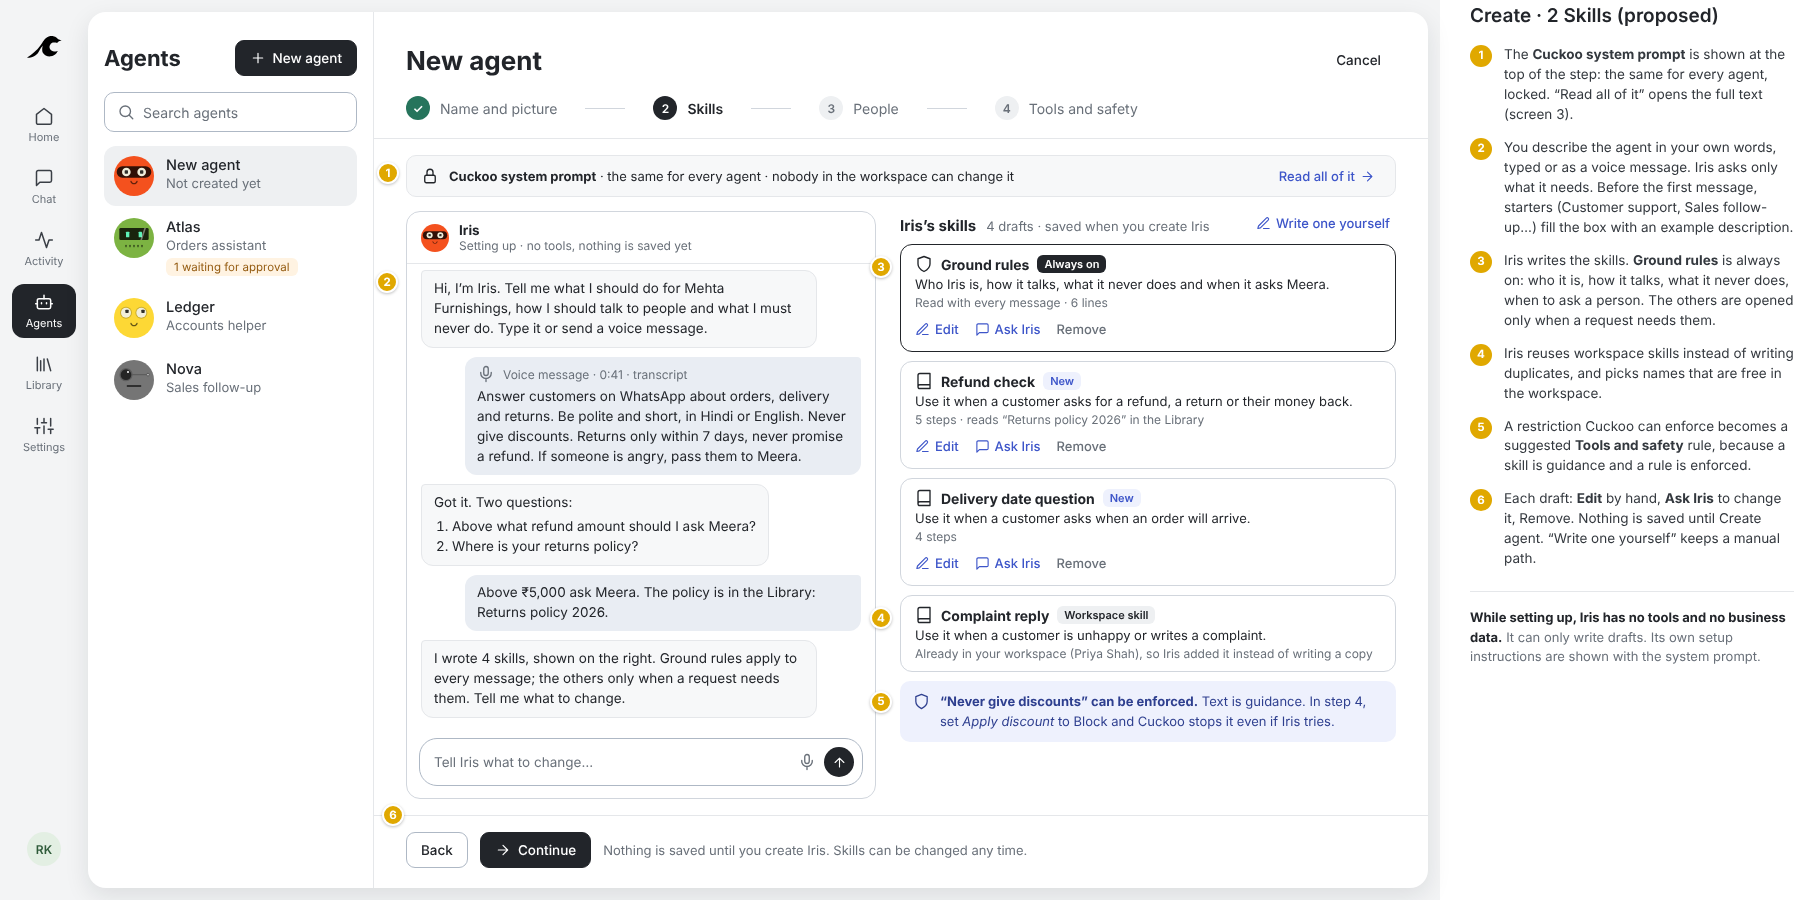
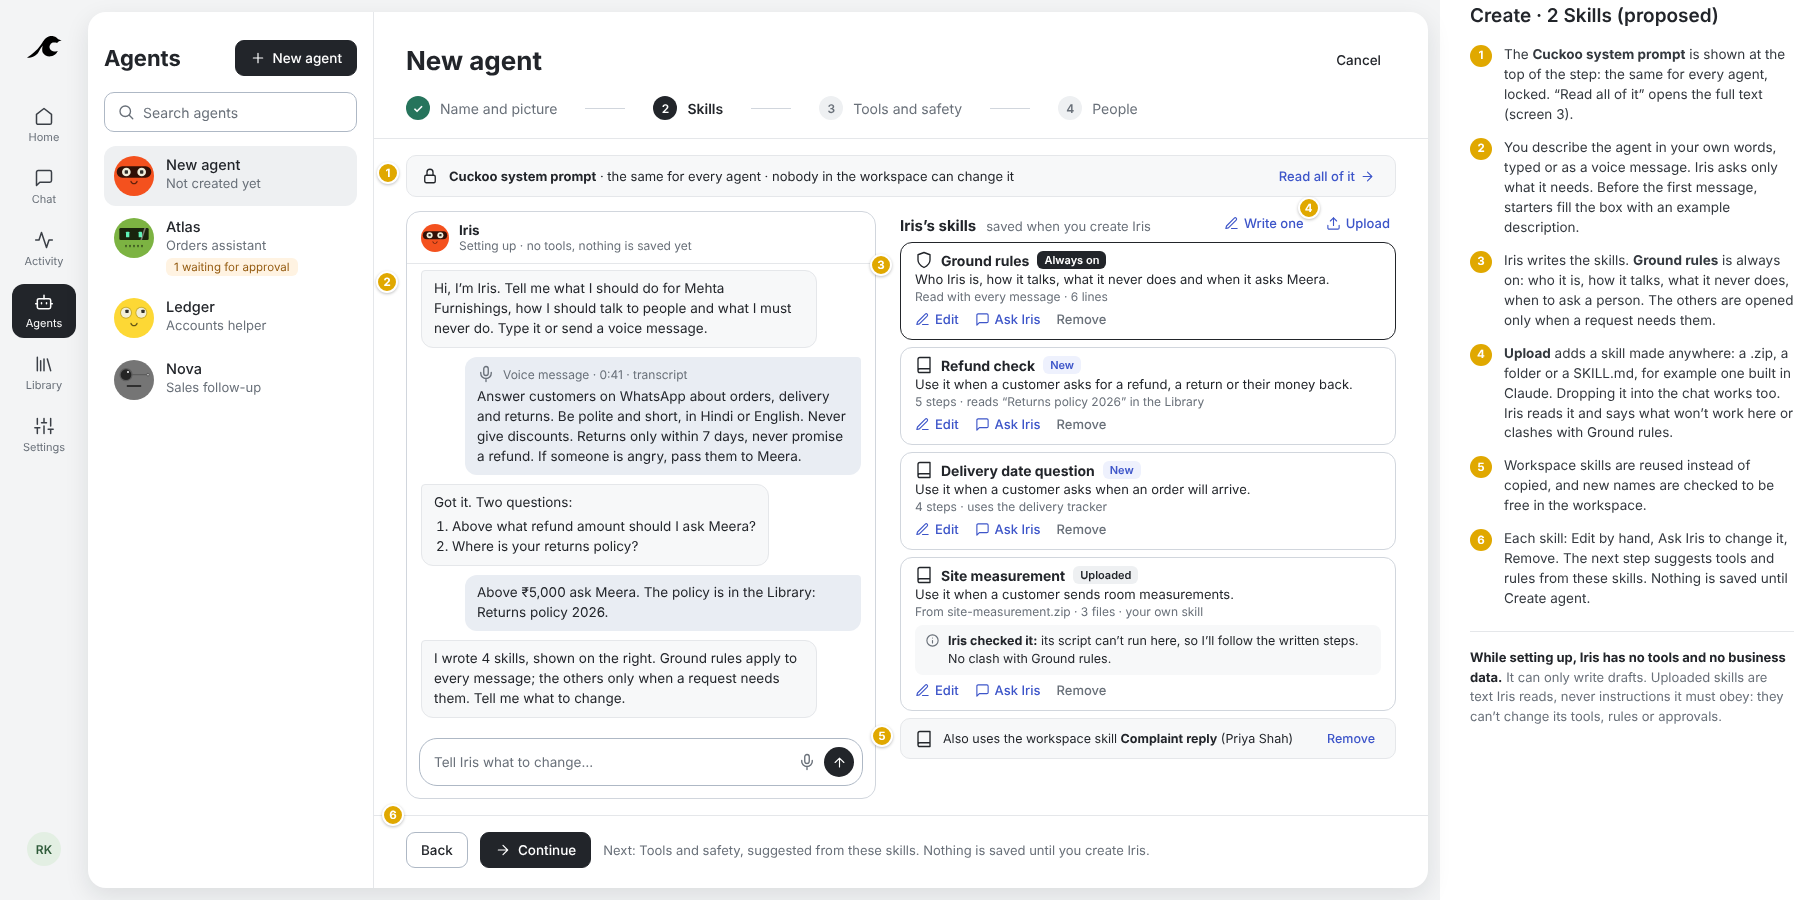
Add outside skill uploads and put Tools and safety after Skills (design only)
The owner wants skills made outside Cuckoo, for example in Claude, to be
uploadable alongside the ones the agent writes. Step 2 now offers Upload next
to Write one; the agent reviews an uploaded skill in setup mode and says what
won't work here (scripts never run) or clashes with Ground rules. Uploaded text
stays untrusted guidance that can't change tools, rules or approvals.

The create order becomes Name and picture, Skills, Tools and safety, People.
Tools come after skills so connectors can be suggested with the skill that
needs them, restrictions from the description become Ask first or Block
rules, and unneeded connectors stay off. Writes are never suggested looser
than Ask first, admin limits still win, and nothing is live until Create
agent. New screen 4 shows the step; the README explains both choices.

Claude-Session: https://claude.ai/code/session_013AjSbZR1nLM9pazhrg5fFe

diff --git a/designs/agent-built-skills/mockups.html b/designs/agent-built-skills/mockups.html
@@ -170,17 +170,17 @@ body{margin:0;font-family:Inter,system-ui,sans-serif;color:var(--text);backgroun
 .composer{margin:8px 12px 12px;border:1px solid var(--border-control);border-radius:18px;padding:8px 8px 8px 14px;display:flex;align-items:center;gap:8px;color:var(--muted);font-size:13.5px}
 .composer .send{width:30px;height:30px;border-radius:50%;background:var(--accent);color:#fff;display:grid;place-items:center}
 .composer .send .i{width:15px;height:15px}
-.drafts{display:flex;flex-direction:column;gap:9px;min-width:0;position:relative}
+.drafts{display:flex;flex-direction:column;gap:7px;min-width:0;position:relative}
 .drafts-head{display:flex;align-items:baseline;gap:10px}
 .drafts-head h3{margin:0;font-size:15px}
 .drafts-head small{color:var(--muted);font-size:13px}
-.draft{border:1px solid var(--border-panel);border-radius:12px;padding:10px 14px;display:grid;gap:3px;background:#fff}
+.draft{border:1px solid var(--border-panel);border-radius:12px;padding:8px 14px;display:grid;gap:2px;background:#fff}
 .draft.always{border-color:var(--accent)}
 .draft-top{display:flex;align-items:center;gap:8px}
 .draft-top b{font-size:14px}
 .draft .when{font-size:13px}
 .draft small{color:var(--muted);font-size:12px}
-.draft .acts{display:flex;gap:4px;margin-top:4px;margin-left:-6px}
+.draft .acts{display:flex;gap:4px;margin-top:1px;margin-left:-6px}
 .badge{font-size:11px;font-weight:600;padding:2px 7px;border-radius:6px;white-space:nowrap}
 .badge.always{background:var(--accent);color:#fff}
 .badge.new{background:#eef1fd;color:var(--link)}
@@ -206,6 +206,27 @@ body{margin:0;font-family:Inter,system-ui,sans-serif;color:var(--text);backgroun
 .layer-title .badge{margin-left:auto}
 .layer p{margin:0;font-size:13px;color:var(--muted)}
 .layer.locked .layer-title .i{color:var(--muted)}
+
+.seg{display:inline-flex;border:1px solid var(--border-panel);border-radius:10px;padding:3px;gap:2px;background:#fff}
+.seg span{padding:5px 13px;border-radius:7px;font-size:12.5px;color:var(--muted);white-space:nowrap}
+.seg .allow{background:#e3f3ea;color:var(--success);font-weight:600}
+.seg .ask{background:var(--warning-bg);color:var(--warning);font-weight:600}
+.seg .block{background:#fdeeee;color:var(--danger);font-weight:600}
+.seg .off{opacity:.4}
+.switch{width:38px;height:22px;border-radius:999px;background:var(--border-panel);position:relative;flex:0 0 auto}
+.switch.on{background:var(--accent)}
+.switch::after{content:'';position:absolute;top:3px;left:3px;width:16px;height:16px;border-radius:50%;background:#fff}
+.switch.on::after{left:19px}
+.conn{border-bottom:1px solid var(--border);padding:10px 0;position:relative}
+.conn-head{display:flex;align-items:center;gap:12px}
+.conn-head b{font-size:14.5px;display:block}
+.conn-head small{color:var(--muted);font-size:12.5px}
+.op{display:grid;grid-template-columns:minmax(0,1fr) auto;gap:12px;padding:6px 0 6px 50px;align-items:center}
+.op b{font-size:13.5px;font-weight:550;display:block}
+.op small{color:var(--muted);font-size:12px;display:block}
+.op small.why{color:var(--link)}
+.review{display:flex;gap:8px;background:var(--soft);border-radius:8px;padding:7px 10px;font-size:12.5px;line-height:1.45;margin-top:4px}
+.review .i{width:15px;height:15px;margin-top:1px;color:var(--muted)}
 </style></head>
 <body>
 <svg width="0" height="0" style="position:absolute" aria-hidden="true">
@@ -237,6 +258,7 @@ body{margin:0;font-family:Inter,system-ui,sans-serif;color:var(--text);backgroun
 <symbol id="send" viewBox="0 0 24 24"><path d="M12 19V5M5 12l7-7 7 7"/></symbol>
 <symbol id="minus" viewBox="0 0 24 24"><path d="M5 12h14"/></symbol>
 <symbol id="shield" viewBox="0 0 24 24"><path d="M12 22s8-4 8-10V5l-8-3-8 3v7c0 6 8 10 8 10z"/></symbol>
+<symbol id="plug" viewBox="0 0 24 24"><path d="M9 2v6M15 2v6M6 8h12v4a6 6 0 0 1-12 0zM12 18v4"/></symbol>
 <symbol id="chev" viewBox="0 0 24 24"><path d="m6 9 6 6 6-6"/></symbol>
 </svg>
 <div id="root"></div>
@@ -285,26 +307,26 @@ const teachChat = `<div class="chat" style="height:100%">
     <div class="composer">Tell Iris what to change…<span style="margin-left:auto">${I('mic')}</span><span class="send">${I('send')}</span></div>
 </div>`;
 
-function draft({ name, badge, when, meta, cls = '', acts = true }) {
+function draft({ name, badge, when, meta, cls = '', acts = true, extra = '' }) {
   return `<div class="draft ${cls}"><div class="draft-top">${I(cls === 'always' ? 'shield' : 'book')}<b>${name}</b>${badge}</div>
-    <span class="when">${when}</span><small>${meta}</small>
+    <span class="when">${when}</span><small>${meta}</small>${extra}
     ${acts ? `<div class="acts"><span class="linkbtn">${I('pencil')}Edit</span><span class="linkbtn">${I('chat')}Ask Iris</span><span class="linkbtn" style="color:var(--muted)">Remove</span></div>` : ''}</div>`;
 }
 
 const teachDrafts = `<div class="drafts">
-  <div class="drafts-head"><h3>Iris’s skills</h3><small>4 drafts · saved when you create Iris</small><span style="margin-left:auto" class="linkbtn">${I('pencil')}Write one yourself</span></div>
+  <div class="drafts-head"><h3>Iris’s skills</h3><small>saved when you create Iris</small><span style="margin-left:auto;position:relative" class="linkbtn">${I('pencil')}Write one</span><span class="linkbtn" style="position:relative">${pin(4, 'left:-22px;top:-14px')}${I('upload')}Upload</span></div>
   <div style="position:relative">${pin(3, 'left:-30px;top:12px')}
   ${draft({ name: 'Ground rules', cls: 'always', badge: '<span class="badge always">Always on</span>', when: 'Who Iris is, how it talks, what it never does and when it asks Meera.', meta: 'Read with every message · 6 lines' })}</div>
   ${draft({ name: 'Refund check', badge: '<span class="badge new">New</span>', when: 'Use it when a customer asks for a refund, a return or their money back.', meta: '5 steps · reads “Returns policy 2026” in the Library' })}
-  ${draft({ name: 'Delivery date question', badge: '<span class="badge new">New</span>', when: 'Use it when a customer asks when an order will arrive.', meta: '4 steps' })}
-  <div style="position:relative">${pin(4, 'left:-30px;top:12px')}
-  ${draft({ name: 'Complaint reply', badge: '<span class="badge ws">Workspace skill</span>', when: 'Use it when a customer is unhappy or writes a complaint.', meta: 'Already in your workspace (Priya Shah), so Iris added it instead of writing a copy', acts: false })}</div>
-  <div class="notice info" style="position:relative">${pin(5, 'left:-30px;top:10px')}${I('shield')}<span><b>“Never give discounts” can be enforced.</b> Text is guidance. In step 4, set <i>Apply discount</i> to Block and Cuckoo stops it even if Iris tries.</span></div>
+  ${draft({ name: 'Delivery date question', badge: '<span class="badge new">New</span>', when: 'Use it when a customer asks when an order will arrive.', meta: '4 steps · uses the delivery tracker' })}
+  ${draft({ name: 'Site measurement', badge: '<span class="badge ws">Uploaded</span>', when: 'Use it when a customer sends room measurements.', meta: 'From site-measurement.zip · 3 files · your own skill',
+    extra: `<div class="review">${I('info')}<span><b>Iris checked it:</b> its script can’t run here, so I’ll follow the written steps. No clash with Ground rules.</span></div>` })}
+  <div class="sp-bar" style="position:relative;font-size:12.5px">${pin(5, 'left:-30px;top:6px')}${I('book')}<span>Also uses the workspace skill <b>Complaint reply</b> (Priya Shah)</span><span class="right linkbtn" style="font-size:12.5px">Remove</span></div>
 </div>`;
 
 const s1 = screen('s1', `<div class="frame">${roster('new')}<div class="main">
   <header class="create-head"><h2>New agent</h2><span class="btn quiet">Cancel</span></header>
-  <ol class="steps" style="margin:0"><li class="done"><span>✓</span>Name and picture</li><li class="line"></li><li class="cur"><span>2</span>Skills</li><li class="line"></li><li><span>3</span>People</li><li class="line"></li><li><span>4</span>Tools and safety</li></ol>
+  <ol class="steps" style="margin:0"><li class="done"><span>✓</span>Name and picture</li><li class="line"></li><li class="cur"><span>2</span>Skills</li><li class="line"></li><li><span>3</span>Tools and safety</li><li class="line"></li><li><span>4</span>People</li></ol>
   <div style="flex:1;min-height:0;padding:16px 32px;display:flex;flex-direction:column;gap:14px">
     <div class="sp-bar" style="position:relative">${pin(1, 'left:-30px;top:6px')}${I('lock')}<span><b>Cuckoo system prompt</b> · the same for every agent · nobody in the workspace can change it</span><span class="right linkbtn">Read all of it ${I('arrow')}</span></div>
     <div style="flex:1;min-height:0;display:grid;grid-template-columns:470px minmax(0,1fr);gap:24px">
@@ -312,15 +334,15 @@ const s1 = screen('s1', `<div class="frame">${roster('new')}<div class="main">
       ${teachDrafts}
     </div>
   </div>
-  <footer class="foot" style="position:relative">${pin(6, 'left:8px;top:-12px')}<span class="btn">Back</span><span class="btn primary">${I('arrow')}Continue</span><p>Nothing is saved until you create Iris. Skills can be changed any time.</p></footer>
+  <footer class="foot" style="position:relative">${pin(6, 'left:8px;top:-12px')}<span class="btn">Back</span><span class="btn primary">${I('arrow')}Continue</span><p>Next: Tools and safety, suggested from these skills. Nothing is saved until you create Iris.</p></footer>
 </div></div>`, notes('Create · 2 Skills (proposed)', [
   'The <b>Cuckoo system prompt</b> is shown at the top of the step: the same for every agent, locked. “Read all of it” opens the full text (screen 3).',
-  'You describe the agent in your own words, typed or as a voice message. Iris asks only what it needs. Before the first message, starters (Customer support, Sales follow-up…) fill the box with an example description.',
+  'You describe the agent in your own words, typed or as a voice message. Iris asks only what it needs. Before the first message, starters fill the box with an example description.',
   'Iris writes the skills. <b>Ground rules</b> is always on: who it is, how it talks, what it never does, when to ask a person. The others are opened only when a request needs them.',
-  'Iris reuses workspace skills instead of writing duplicates, and picks names that are free in the workspace.',
-  'A restriction Cuckoo can enforce becomes a suggested <b>Tools and safety</b> rule, because a skill is guidance and a rule is enforced.',
-  'Each draft: <b>Edit</b> by hand, <b>Ask Iris</b> to change it, Remove. Nothing is saved until Create agent. “Write one yourself” keeps a manual path.',
-], '<b>While setting up, Iris has no tools and no business data.</b> It can only write drafts. Its own setup instructions are shown with the system prompt.'));
+  '<b>Upload</b> adds a skill made anywhere: a .zip, a folder or a SKILL.md, for example one built in Claude. Dropping it into the chat works too. Iris reads it and says what won’t work here or clashes with Ground rules.',
+  'Workspace skills are reused instead of copied, and new names are checked to be free in the workspace.',
+  'Each skill: Edit by hand, Ask Iris to change it, Remove. The next step suggests tools and rules from these skills. Nothing is saved until Create agent.',
+], '<b>While setting up, Iris has no tools and no business data.</b> It can only write drafts. Uploaded skills are text Iris reads, never instructions it must obey: they can’t change its tools, rules or approvals.'));
 
 /* ---------- Screen 2: change a skill with chat ---------- */
 const irisHead = `<header class="agent-head"><span class="av"><img src="${AV('07')}" alt=""></span>
@@ -425,6 +447,40 @@ const s3 = screen('s3', s2bg, notes('Everything the agent receives', [
   '<b>Copy as text</b> gives the exact text. Opened from the create step, the Skills tab and the agent’s ⋯ menu, so anyone who can see the agent can read it at any time.',
 ], '<b>Today</b> the Cuckoo rules card and this preview show only the first paragraph. About 20 more fixed paragraphs are added at request time in <code class="mono">chat/execution.rs</code> and are invisible.'));
 
-document.getElementById('root').innerHTML = s1 + s2 + s3;
+
+/* ---------- Screen 4: tools and safety, suggested from the skills ---------- */
+const seg = mode => `<span class="seg">${['allow','ask','block'].map(m => `<span class="${m === mode ? m : ''}">${{allow:'Allow',ask:'Ask first',block:'Block'}[m]}</span>`).join('')}</span>`;
+const segLocked = `<span class="seg"><span class="off">Allow</span><span class="off">Ask first</span><span class="block">Block</span></span>`;
+const conn = ({ name, sub, badge = '', on, ops = '', icon = 'plug' }) => `<div class="conn"><div class="conn-head"><span class="tile">${I(icon)}</span>
+  <span style="flex:1;min-width:0"><b>${name}</b><small>${sub}</small></span>${badge}<span class="switch ${on ? 'on' : ''}"></span></div>${ops}</div>`;
+const op = (title, sub, why, mode) => `<div class="op"><span><b>${title}</b><small>${sub}</small>${why ? `<small class="why">${why}</small>` : ''}</span>${mode}</div>`;
+
+const s4 = screen('s4', `<div class="frame">${roster('new')}<div class="main">
+  <header class="create-head"><h2>New agent</h2><span class="btn quiet">Cancel</span></header>
+  <ol class="steps" style="margin:0"><li class="done"><span>✓</span>Name and picture</li><li class="line"></li><li class="done"><span>✓</span>Skills</li><li class="line"></li><li class="cur"><span>3</span>Tools and safety</li><li class="line"></li><li><span>4</span>People</li></ol>
+  <div style="flex:1;min-height:0;padding:16px 32px;display:flex;flex-direction:column;gap:6px">
+    <div class="notice info" style="position:relative;align-items:center">${pin(1, 'left:-30px;top:10px')}${I('shield')}<span style="flex:1">Iris suggested these from its skills. Your admin sets the loosest rule for each action; you can only make it stricter. Nothing is used until you create Iris.</span><span class="btn small" style="background:#fff">Clear suggestions</span></div>
+    <div style="position:relative">${pin(2, 'left:-30px;top:22px')}
+    ${conn({ name: 'Zoho Books', sub: 'Accounts and orders · 4 actions', on: true, badge: '<span class="badge new">Suggested for Refund check</span>', ops:
+      op('Read orders and invoices', 'Reads', 'Refund check looks up the order', seg('allow')) +
+      `<div style="position:relative">${pin(3, 'left:18px;top:14px')}` + op('Create a credit note', 'Changes', 'Ask first, because you said: “never promise a refund yourself”', seg('ask')) +
+      op('Apply a discount', 'Changes', 'Block, because you said: “never give discounts”', seg('block')) + '</div>' +
+      `<div style="position:relative">${pin(4, 'left:18px;top:10px')}` + op('Delete an invoice', 'Deletes · blocked by your admin', '', segLocked) + '</div>' })}</div>
+    ${conn({ name: 'Delivery tracker', sub: 'External MCP server · 3 actions', on: true, icon: 'file', badge: '<span class="badge new">Suggested for Delivery date question</span>', ops:
+      op('Track a shipment', 'Reads', 'Delivery date question checks the courier', seg('allow')) })}
+    <div style="position:relative">${pin(5, 'left:-30px;top:16px')}
+    ${conn({ name: 'Google Workspace', sub: 'Gmail and Calendar · 6 actions · no skill needs it', on: false })}</div>
+    <div class="notice" style="margin-top:8px">${I('warning')}<span><b>Site measurement</b> mentions saving files to Google Drive, which isn’t connected. Iris will ask the customer to send measurements in chat instead, or you can ask Iris to change the skill.</span></div>
+  </div>
+  <footer class="foot"><span class="btn">Back</span><span class="btn primary">${I('arrow')}Continue</span><p>No tools is fine. Tools can change later on the Tools tab.</p></footer>
+</div></div>`, notes('Create · 3 Tools and safety', [
+  'Tools and safety moves to <b>step 3, right after Skills</b>, so it can start from what the agent will actually do. Clear suggestions turns everything off again.',
+  'Each suggested connector names the skill that needs it. Reads a skill needs are suggested as Allow; connectors no skill needs stay off.',
+  'Restrictions from your description become <b>enforced</b> rules, quoting your words: Ask first for a credit note, Block for discounts. Changes are never suggested looser than Ask first.',
+  'Your admin’s limits still win: options looser than the admin rule are greyed out, as today.',
+  'Skills that need something missing get a plain warning, so you can switch it on, change the skill or accept it.',
+], '<b>People moves to step 4</b> and gets the Create agent button. Who can talk to the agent doesn’t depend on its skills or tools.'));
+
+document.getElementById('root').innerHTML = s1 + s2 + s3 + s4;
 </script>
 </body></html>

diff --git a/designs/agent-built-skills/README.md b/designs/agent-built-skills/README.md
@@ -17,6 +17,10 @@ folder. The example company is fictional.
   describes the agent in their own words; the agent asks what it needs and
   writes its skills. The person reviews them, edits any skill by hand or asks the
   agent in chat to change it. An agent can have several skills.
+- Skills made anywhere else (for example in Claude) can be **uploaded** too, as
+  today: a `.zip`, a folder or a `SKILL.md`.
+- **Order:** Name and picture → Skills → Tools and safety → People. Tools come
+  after skills so they can be suggested from what the agent will do.
 
 ## Additions to keep it safe
 
@@ -38,9 +42,38 @@ folder. The example company is fictional.
 
 | File | Screen and notes |
 | --- | --- |
-| `1-teach-the-agent.png` | Create step 2, now "Skills". (1) The Cuckoo system prompt, locked, with Read all of it. (2) Describe the agent by text or voice; it asks a few questions. (3) Drafts: Ground rules (always on) and task skills. (4) Workspace skills reused instead of copied. (5) An enforceable restriction suggested for step 4. (6) Edit, Ask Iris, Remove; nothing saved until Create agent; Write one yourself stays. |
+| `1-teach-the-agent.png` | Create step 2, now "Skills". (1) The Cuckoo system prompt, locked, with Read all of it. (2) Describe the agent by text or voice; it asks a few questions. (3) Drafts: Ground rules (always on) and task skills. (4) Upload a skill made elsewhere; the agent reviews it and says what won't work here. (5) Workspace skills reused instead of copied. (6) Edit, Ask Iris, Remove; nothing saved until Create agent; next step suggests tools. |
 | `2-change-a-skill-with-chat.png` | Agent page, Skills tab (was Instructions). (1) Ground rules first, then skills with version and use. (2) The proposed change as a diff. (3) Change with Iris: private setup chat that proposes, never saves. (4) Save as version 3 or Discard; versions record that the change came from chat. (5) Edit by hand. |
 | `3-everything-it-receives.png` | Everything Iris receives. (1) The full Cuckoo system prompt, dated. (2) Each section says whether it is included for this agent and why. (3) Ground rules and the skill list. (4) What is added per message and only when needed. (5) Copy as text. |
+| `4-tools-from-skills.png` | Create step 3, Tools and safety. (1) Suggested from the skills; Clear suggestions. (2) Each connector names the skill that needs it; unneeded ones stay off. (3) Restrictions become Ask first or Block, quoting the person's words. (4) Admin limits still win. (5) A warning when a skill needs something that isn't connected. People becomes step 4 with Create agent. |
+
+## Skills from outside
+
+- Upload accepts what it does today (`skill_files.rs`): a `.zip`, a folder or a
+  pasted `SKILL.md`; at most 100 text files and 5 MB, `SKILL.md` at most 500
+  lines, names in the open Agent Skills format. Skills from Claude and other
+  tools use the same format.
+- Scripts are kept as text and never run, so a skill that depends on its script
+  only partly works. The review says so.
+- Uploaded text is untrusted. The agent reviews it in setup mode and points out
+  instructions that clash with Ground rules, ask for tools the agent doesn't
+  have, or try to send data elsewhere. A skill never changes tools, rules or
+  approvals.
+- An uploaded skill is edited like any other: by hand, by chat, or by uploading
+  a newer file with the same name as its next version (new: "Upload a new
+  version" on the skill). Download .zip gives the standard format back.
+
+## Why skills come before tools
+
+- People think about the job first; the tools follow from it.
+- Tools can then be suggested with a reason (the skill that needs them), which
+  keeps an agent to the tools it uses. Today every connector starts off and the
+  person has to guess.
+- Restrictions from the description become enforced rules in the same place.
+- The agent still knows what exists: while writing skills it sees the names of
+  connectors and actions the admin added (no access), so skills don't promise
+  actions that aren't available.
+- Nothing is live until Create agent, so this order doesn't weaken safety.
 
 ## How it would be built
 
@@ -64,6 +97,8 @@ folder. The example company is fictional.
 
 ## Behaviour changes to confirm
 
+- Tools and safety moves before People, and is filled in from the skills;
+  writes are never suggested looser than Ask first.
 - Step 2 and the Instructions tab are renamed **Skills**; the free-text
   Instructions box is replaced by the Ground rules skill.
 - Skills written by the builder belong to the agent's owner and are used only by
